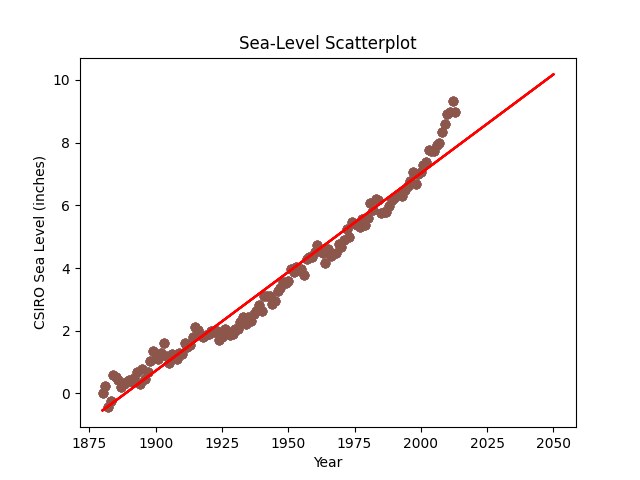
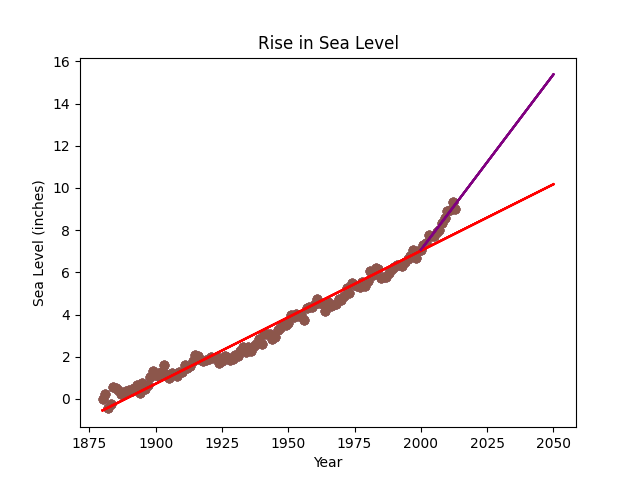
second line of best fit

diff --git a/sea_level_predictor.py b/sea_level_predictor.py
@@ -15,28 +15,46 @@ def draw_plot():
 
     plt.scatter(years, seaLevel)
 
-# Create first line of best fit // linha que representa a tendência
+# Create first line of best fit
 
     # Definição do INTERVALO de anos.
-    x_pred =  pd.Series(range(1880, 2051)) # o range gera a sequência de anos, e o series transforma os dados em objeto pandas que pode ser usado para operações matemáticas
+    x_1st =  pd.Series(range(1880, 2051)) # o range gera a sequência de anos, e o series transforma os dados em objeto pandas que pode ser usado para operações matemáticas
 
     # Cálculo dos PARÂMETROS que serão utilizados na regressão linear
     slope, intercept, *_ = linregress(years, seaLevel) # atribuição de multiplos valores de uma só vez com tupla, ignorando os ultimos 3 valores que são retornados com a função
 
     # Escrevendo a regressão linear que vai gerar as PREVISÕES, com a equação matemática da reta: y = m*x + b (m -> slope (coeficiente angular); b -> intercept (cruzamento no Y))
-    y_pred = (slope * x_pred) + intercept
+    y_pred = (slope * x_1st) + intercept
 
     # Plotando a linha vermelha no scatterplot já existente
-    plt.plot(x_pred, y_pred, color='red')
+    plt.plot(x_1st, y_pred, color='red')
 
 # Create second line of best fit
+
+    # Novo intervalo de dados
+    df_recent = df[df['Year'] >= 2000]
+
+    years_recent = df_recent["Year"]
+    seaLevel_recent = df_recent['CSIRO Adjusted Sea Level']
+
+    # Definição do novo INTERVALO de anos.
+    x_2nd =  pd.Series(range(2000, 2051))
+
+    # Novos parâmetros
+    slope_recent, intercept_recent, *_ = linregress(years_recent, seaLevel_recent)
+
+    # Regressão linear
+    y_pred2 = (slope_recent * x_2nd) + intercept_recent
+
+    # Plotando a linha roxa no scatterplot
+    plt.plot(x_2nd, y_pred2, color='purple')
 
 
 # Add labels and title
 
-    plt.title('Sea-Level Scatterplot')
+    plt.title('Rise in Sea Level')
     plt.xlabel('Year')
-    plt.ylabel('CSIRO Sea Level (inches)')
+    plt.ylabel('Sea Level (inches)')
 
 # Save plot and return data for testing (DO NOT MODIFY)
     plt.savefig('sea_level_plot.png')
